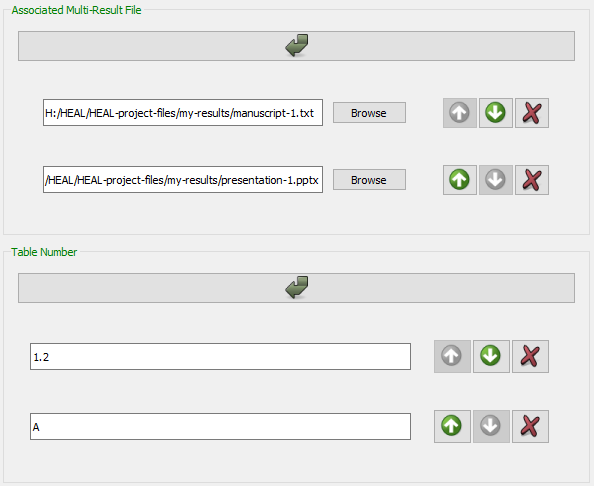
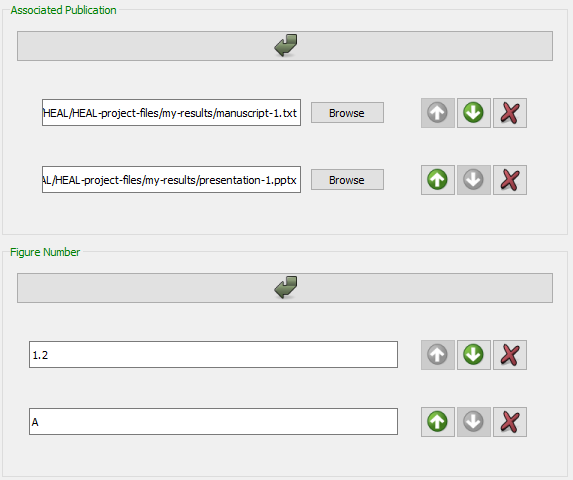
Updates for new tool release

diff --git a/docs/resulttrack/addresult.md b/docs/resulttrack/addresult.md
@@ -54,29 +54,29 @@
 2. This field pipes in all existing experiment names from the Experiment Tracker into a drop-down menu.
 
      <figure markdown>
-        ![](../app-screenshots/result-assoc-exp.PNG)
+        ![](../app-screenshots/results-assoc-exp.PNG)
         <figcaption></figcaption>
     </figure>  
 
-#### Associated Multi-Result File(s)
-1. You will need to provide the path for the Associated Multi-Result File (e.g., manuscript, poster, etc.), in which the individual result appears. To add, select the arrow below the field:
+#### Associated Publication
+1. If this figure is already part of a manuscript, poster, or other publication, you will provide the path for that publication here. If your figure is not currently associated with a publication, you can leave this field blank. When it is included within a publication, you should return to [edit the result annotation](editresult.md) to add in the associated publication. 
 
+To add, select the arrow below the field:
     <figure markdown>
         ![](../app-screenshots/assoc-multi-result-file-2.PNG)
         <figcaption></figcaption>
     </figure>
         
-    *If the result is associated with multiple multi-result files*, select the arrow again and enter the paths to each of the multi-result files here. This will allow the tool to create a results tracker for each of those multi-result files in future steps (or add the individual result to the right results trackers), all of which will be associated with this result.
-
+*If the result is associated with multiple publications*, select the arrow again and enter the paths to each of the publication files here. This will allow the tool to create a results tracker for each of those publications in future steps (or add the individual result to the right results trackers), all of which will be associated with this result.
     <figure markdown>
         ![](../app-screenshots/assoc-multi-result-file-multi.PNG)
         <figcaption></figcaption>
     </figure>
 
 #### Figure Number/Table Number
-1. If you selected "Figure" or "Table" within "Result Category," you will need to provide a corresponding figure/table number for each "Associated Multi-Result File."
+1. If you selected "Figure" or "Table" within "Result Category," you will need to provide a corresponding figure/table number for each "Associated Publication."
 1. Click on the arrow to insert each figure/table number. 
-    1. Ensure that the figure/table numbers are in the same order as the multi-result files. You can adjust the order using the green up and down arrows.
+    1. Ensure that the figure/table numbers are in the same order as the corresponding publications. You can adjust the order using the green up and down arrows.
         
         <figure markdown>
             ![](../app-screenshots/figure-num.PNG)
@@ -114,7 +114,7 @@ Regardless of your annotation approach, there are two ways to add "Associated Fi
 
 
 #### Result Supports
-This describes the larger claim that the result is used to support in the multi-result file. This is not required but can be very useful for data reuse and interpretation for future researchers.
+This describes the larger claim that the result is used to support in the publication. This is not required but can be very useful for data reuse and interpretation for future researchers.
 
 ![](../app-screenshots/results-support.PNG)
 
@@ -122,19 +122,24 @@ This describes the larger claim that the result is used to support in the multi-
 
 1. When you are done filling out the form, select "Save result."
 
-!!! warning
+    !!! warning
 
-    **Make sure that you do not have your Results Tracker open before trying to save.**
+        **Make sure that you do not have your Results Tracker open before trying to save.**
 
-    If you attempt to save a result but have the corresponding Results Tracker open, the annotated result file *will* save to your dsc-pkg folder, but the tool *will not* be able to automatically save the information to the Results Tracker. You will receive this error:
-        <figure markdown>
-            ![](../app-screenshots/result-tracker-open-error.PNG)
-            <figcaption></figcaption>
-        </figure>
-    
-    As the printed message explains, in this case, you will have to use the ["Batch add existing result(s) to tracker" option](batchresult.md) to add this annotated result file to the Results Tracker.
+        If you attempt to save a result but have the corresponding Results Tracker open, the annotated result file *will* save to your dsc-pkg folder, but the tool *will not* be able to automatically save the information to the Results Tracker. You will receive this error:
+            <figure markdown>
+                ![](../app-screenshots/result-tracker-open-error.PNG)
+                <figcaption></figcaption>
+            </figure>
+        
+        As the printed message explains, in this case, you will have to use the ["Batch add existing result(s) to tracker" option](batchresult.md#batch-add-results-to-tracker) to add this annotated result file to the Results Tracker.
 
-2. If your result saves successfully, The User Status Message Box will display this message to indicate your result saved successfully and that the result has been written to the Results Tracker file.
+1. Each time you save a result, the tool will look for two things:
+    1. Any existing Results Trackers for the associated publication(s) included in the annotation. If they do not already exist, the tool will create one for each of the associated publication(s). 
+    2. A Results Tracker called "heal-csv-results-tracker-collect-all." This Results Tracker file will include a compilation of every annotated result, regardless of its associated publication.
+        1. If you annotate a result that is not yet associated with a publication, it will appear in this tracker only until you edit the result annotation to include an associated publication.
+
+2. If your result saves successfully, The User Status Message Box will display this message to indicate your result saved successfully and that the result has been written to the corresponding Results Tracker file(s) as well as the results-tracker-collect-all file.
 
     <figure markdown>
         ![](../app-screenshots/usmb-results-save.png)
@@ -153,7 +158,7 @@ This describes the larger claim that the result is used to support in the multi-
         Once you have created them, you will not generally need to interact with the annotation files (.txt files) unless:
         
         1. You need to [edit an existing annotated result](editresult.md)
-        2. There is an error in automatically adding results to the Results Tracker, which would necessitate manually [batch adding results to the tracker](batchresult.md)
+        2. There is an error in automatically adding results to the Results Tracker, which would necessitate manually [batch adding results to the tracker](batchresult.md#batch-add-results-to-tracker)
 
 3. Clear the form. When the form resets, the next sequential Result ID will be generated, so you can start annotating a new result right away.
 
@@ -161,6 +166,12 @@ This describes the larger claim that the result is used to support in the multi-
         ![](../app-screenshots/result-clear-form.PNG)
         <figcaption></figcaption>
     </figure>
+
+!!! tip 
+
+     If you need to annotate a new result that is very similar to a previously annotated result with only some slight changes, you can also use the advanced option ["Add a new result based on an existing result."](batchresult.md#add-a-new-resource-based-on-an-existing-resource) 
+     
+     This will allow you to copy the information from a previously annotated result into a new result, for ease of annotation.
 
 
 

diff --git a/docs/resotrack/addresource.md b/docs/resotrack/addresource.md
@@ -49,11 +49,11 @@ Below is a table of all the resource category and sub-category options for your 
 
 | Resource Category               | Sub-category                          | Additional Resource Annotation Fields for Category |
 | ------------------------------- | ------------------------------------- | ------------------------------------- |
-| Multi-result | Peer-review manuscript<br>Report<br>White paper<br>Presentation<br>Poster | <ul><li>**Multi-result Resource - Sub-Category**</li><li>**Associated Results Tracker**: provides the path to the Results Tracker associated with this multi-result file;<br>*Note that the Associated Files/Dependencies field will no longer appear.*</li>
-| Single-result | Figure<br>Table<br>Text | <ul><li>**Single-result Resource - Sub-Category**</li>
+| Publication | Peer-review manuscript<br>Report<br>White paper<br>Presentation<br>Poster | <ul><li>**Publication Resource - Sub-Category**</li><li>**Associated Results Tracker**: provides the path to the Results Tracker associated with this multi-result file;<br>*Note that the Associated Files/Dependencies field will no longer appear.*</li>
+| Result | Multi-panel figure<br>Single-panel figure<br>Table<br>Text | <ul><li>**Result Resource - Sub-Category**</li>
 | Tabular-data | Raw data<br>Processed intermediate data<br>Processed final data | <ul><li>**Resource Row Description**: explanation of what one row within the tabular file represents</li><li>**Data Resource - Sub-Category**</li><li>**Associated Data Dictionary**: file path for the data dictionary associated with the tabular file (should not be put in the Associated Files/Dependencies field)</li><li>**Associated Protocol**: file path for the protocol associated with the tabular file (should not be put in the Associated Files/Dependencies field)</li>
 | Non-tabular-data | Raw data<br>Processed intermediate data<br>Processed final data | <ul><li>**Data Resource - Sub-Category**</li><li>**Associated Protocol**: file path for the protocol associated with the tabular file (should not be put in the Associated Files/Dependencies field)</li>
-| Metadata | HEAL-formatted data dictionary<br>Other formatted data dictionary<br>Protocol<br>Analysis plan<br>HEAL-formatted results tracker<br>HEAL-formatted experiment tracker<br>Other | <ul><li>**Metadata Resource - Sub-Category**</li><li>*Note that if you select heal-formatted-results-tracker as the sub-category, the "Associated Files/Dependencies field will no longer appear.*</li>
+| Metadata | HEAL-formatted data dictionary<br>Other formatted data dictionary<br>Protocol<br>Analysis plan<br>HEAL-formatted results tracker<br>Other | <ul><li>**Metadata Resource - Sub-Category**</li><li>*Note that if you select heal-formatted-results-tracker as the sub-category, the "Associated Files/Dependencies field will no longer appear.*</li>
 | Code | No sub-categories | <ul><li>No additional Resource Tracker fields</li>
 
 #### Experiment Resource 'Belongs' To 
@@ -288,3 +288,9 @@ Once you have finished entering the resource information, select "Save resource.
             ![](../app-screenshots/usmb-clear-resource-form.PNG)
             <figcaption></figcaption>
         </figure>
+
+!!! tip 
+
+     If you need to annotate a new resource that is very similar to a previously annotated resource with only some slight changes, you can also use the advanced option ["Add a new resource based on an existing resource."](batchreso.md#add-a-new-resource-based-on-an-existing-resource) 
+     
+     This will allow you to copy the information from a previously annotated resource into a new resource, for ease of annotation.

diff --git a/docs/exptrack/addexp.md b/docs/exptrack/addexp.md
@@ -80,7 +80,7 @@ Once you have finished entering the experiment information, select "Save experim
             <figcaption></figcaption>
         </figure>
     
-    As the printed message explains, in this case, you will have to use the ["Batch add existing experiment(s) to tracker" option](batchexp.md) to add this annotated experiment file to the Experiment Tracker.
+    As the printed message explains, in this case, you will have to use the ["Batch add existing experiment(s) to tracker" option](batchexp.md#batch-add-experiments-to-tracker) to add this annotated experiment file to the Experiment Tracker.
 
 1. If the experiment is saved successfully, the User Status Message Box will display this message to indicate your experiment saved successfully and that the experiment has been written to the Experiment Tracker file:
 
@@ -95,12 +95,12 @@ Once you have finished entering the experiment information, select "Save experim
         <figcaption></figcaption>
     </figure>
 
-!!! note
+    !!! note
 
-    Once you have created them, you will not generally need to interact with the annotation files (.txt files) unless:
+        Once you have created them, you will not generally need to interact with the annotation files (.txt files) unless:
 
-    1. You need to [edit an existing annotated experiment](editexp.md)
-    2. There is an error in automatically adding the experiment to the Experiment Tracker, which would necessitate manually [batch adding experiments to the tracker](batchexp.md#batch-add-experiments-to-tracker)
+        1. You need to [edit an existing annotated experiment](editexp.md)
+        2. There is an error in automatically adding the experiment to the Experiment Tracker, which would necessitate manually [batch adding experiments to the tracker](batchexp.md#batch-add-experiments-to-tracker)
 
 5. After you have added a new experiment, you can annotate a new experiment.
 

diff --git a/docs/resulttrack/index.md b/docs/resulttrack/index.md
@@ -6,11 +6,13 @@ full-width: true
 
 # About the Results Tracker
 
-![](../app-screenshots/results-track-first.png){: loading=lazy width="550" align=right } This tab will help you create and fill out the Results Tracker(s). Each Results Tracker provides an annotated inventory of all results included in a multi-result file. The depth and extent of information included in a Results Tracker will be determined by the approach you have chosen for annotation of your data.
+![](../app-screenshots/results-track-first.png){: loading=lazy width="550" align=right } This tab will help you create and fill out the Results Tracker(s). Each Results Tracker provides an annotated inventory of all results included in a publication. The depth and extent of information included in a Results Tracker will be determined by the approach you have chosen for annotation of your data.
 
-You will have one Results Tracker for **each** multi-result file (e.g., manuscript, poster, etc.) that you share. If you only have one multi-result file that you are planning to share, you will only have one Results Tracker. However, if you have multiple multi-result files, you will have a Results Tracker for each multi-result file.
+You will have one Results Tracker for **each** publication (e.g., manuscript, poster, etc.) that you share. If you only have one publication that you are planning to share, you will only have one Results Tracker. However, if you have multiple publications, you will have a Results Tracker for each publication.
 
-<br><br>
+In addition to the publication-specific Results Trackers, you will have one overall Results Tracker, which is a compilation of all individual results you have annotated within the tool, including results that are not yet associated with a publication.
+
+<br><br><br>
 
 !!! note "A Note on the Results Tracker"
 

diff --git a/docs/resotrack/batchreso.md b/docs/resotrack/batchreso.md
@@ -1,5 +1,34 @@
 # Advanced
 
+## Add a New Resource Based on an Existing Resource
+
+If you need to annotate a resource that is very similar to a previously annotated resource, with only small changes, you may want to use the "Add a new resource based on an existing resource" option. 
+
+With this feature, you will select a previously annotated resource, and the tool will copy the information from the chosen resource into a new resource annotation form with a unique resource-ID. You will then only need to edit the information rather than reproduce it.
+
+1. Select "Add a new resource based on an existing resource."
+
+    <figure markdown>
+        ![](../app-screenshots/new-resource-based-on-old.PNG)
+        <figcaption></figcaption>
+    </figure>
+
+2. Your working data package folder will open automatically. Select the resource on which you want to base your new resource annotation. 
+
+    <figure markdown>
+        ![](../app-screenshots/select-old-resource.PNG)
+        <figcaption></figcaption>
+    </figure>
+
+3. The annotate resource form will open and populate with the selected resource information with a unique ID.
+
+    <figure markdown>
+        ![](../app-screenshots/populate-new-resource.PNG)
+        <figcaption></figcaption>
+    </figure>
+
+4. Edit the form to reflect the differences in this new resource. Save the form.
+
 ## Batch Add Resource(s) to Tracker
 
 If you try to save a resource while you have the Resource Tracker open, you will receive an error. The annotated resource file will save as a .txt file within the dsc-pkg folder, but it will not be added to the Resource Tracker. You will need to add this resource manually using the "Batch add existing resource(s) to tracker" option.

diff --git a/docs/resulttrack/batchresult.md b/docs/resulttrack/batchresult.md
@@ -1,4 +1,35 @@
 # Advanced
+
+
+## Add a New Result Based on an Existing Result
+
+If you need to annotate a result that is very similar to a previously annotated result, with only small changes, you may want to use the "Add a new result based on an existing result" option. 
+
+With this feature, you will select a previously annotated result, and the tool will copy the information from the chosen result into a new result annotation form with a unique result-ID. You will then only need to edit the information rather than reproduce it.
+
+1. Select "Add a new result based on an existing result."
+
+    <figure markdown>
+        ![](../app-screenshots/new-result-based-on-old.PNG)
+        <figcaption></figcaption>
+    </figure>
+
+2. Your working data package folder will open automatically. Select the result on which you want to base your new result annotation. 
+
+    <figure markdown>
+        ![](../app-screenshots/select-old-result.PNG)
+        <figcaption></figcaption>
+    </figure>
+
+3. The annotate result form will open and populate with the selected result information with a unique ID.
+
+    <figure markdown>
+        ![](../app-screenshots/populate-new-result.PNG)
+        <figcaption></figcaption>
+    </figure>
+
+4. Edit the form to reflect the differences in this new result. Save the form.
+
 ## Batch Add Result(s) to Tracker
 
 If you try to save a result while you have the corresponding Results Tracker open, you will receive an error. The annotated result file will save as a .txt file within the dsc-pkg folder, but it will not be added to the Results Tracker. You will need to do this manually using the "Batch add existing result(s) to tracker" option.

diff --git a/docs/exptrack/editexp.md b/docs/exptrack/editexp.md
@@ -41,12 +41,6 @@ If you want to edit an experiment annotation after you have created it, you can 
             ![](../app-screenshots/edit-result-archive.PNG)
             <figcaption></figcaption>
         </figure>
-    
-        !!! Note
-    
-            Currently, you can only edit an experiment once within the tool, due to an issue of duplicate files in the archive folder. This will be addressed in later releases of the tool. 
-            
-            For a temporary fix, if you need to make second or third edits to the same experiment file, you should go into the archive folder and change the name of the experiment txt file saved there (for example, you can change the name from "exp-trk-exp-1" to "exp-trk-exp-1-1"). This will allow the tool to archive your current experiment annotation without returning an error.
         
 
 4. Make any necessary edits to your experiment file, and then select "Save experiment."

diff --git a/docs/resulttrack/resulttotrack.md b/docs/resulttrack/resulttotrack.md
@@ -31,7 +31,7 @@ Once you have annotated your results files, close the "Annotate Result" window a
 
 4. Once you select the folder, you will receive information in the User Status Message Box notifying you that the Results Tracker(s) have been created based on your results file(s). 
     
-    *In the example below, results added were associated with two different multi-result files, so two results trackers were created and saved in the dsc-pkg folder. And the individual results were automatically entered into each tracker, as appropriate.*
+    *In the example below, results added were associated with two different publications, so two results trackers were created and saved in the dsc-pkg folder. And the individual results were automatically entered into each tracker, as appropriate.*
 
     <figure markdown>
         ![](../app-screenshots/usmb-results-auto.png)

diff --git a/docs/resotrack/editresource.md b/docs/resotrack/editresource.md
@@ -35,10 +35,4 @@ If you want to edit a resource after you have created it, you can do so in the t
         <figcaption></figcaption>
     </figure> 
 
-    !!! note
-
-        Currently, you can only edit a resource once within the tool, due to an issue of duplicate files in the archive folder. This will be addressed in later releases of the tool. 
-        
-        For a temporary fix, if you need to make second or third edits to the same resource file, you should go into the archive folder and change the name of the resource txt file saved there (for example, you can change the name from "resource-trk-result-1" to "resource-trk-result-1-1" and so on for additional revisions). This will prevent an error.
-
 4. Make any necessary edits to your resource file, and then select "Save resource."

diff --git a/docs/resulttrack/editresult.md b/docs/resulttrack/editresult.md
@@ -41,9 +41,4 @@ If you want to edit a result after you have created it, you can do so in the too
             <figcaption></figcaption>
         </figure>
 
-        !!! Note
-    
-            Currently, you can only edit a result once within the tool, due to an issue of duplicate files in the archive folder. This will be addressed in later releases of the tool. For a temporary fix, if you need to make second or third edits to the same result file, you should go into the archive folder and change the name of the result txt file saved there (for example, you can change the name from "result-trk-result-1" to "result-trk-result-1-1").
-        
-
 4. Make any necessary edits to your result file, and then select "Save result."

diff --git a/docs/about/download/start-mac.md b/docs/about/download/start-mac.md
@@ -1,5 +1,9 @@
 # Downloading the Desktop Application Tool for Mac
 
+!!! Info "What to Do First"
+
+    * **DO NOT delete your dsc-pkg folder or contents:** If you have already used the tool to create/initialize your data package (i.e. created your dsc-pkg folder within your study folder), **DO NOT** delete your dsc-pkg folder or any of its contents (i.e. standard data package metadata files such as experiment, resource, and results trackers and data dictionaries)
+
 1. Navigate to the [latest release for the tool](https://github.com/norc-heal/heal-data-pkg-tool/releases/latest/){target=_blank}. 
     1. Expand "Assets" and select "dsc-pkg-tool-mac.zip" to download the tool.
 

diff --git a/docs/resulttrack/viewresult.md b/docs/resulttrack/viewresult.md
@@ -8,7 +8,7 @@ full-width: true
 
 If you need to view anything that you have already input into the Results Tracker, you can use the "View Tracker" feature. It may be useful to view your Results Tracker within the application to:
 
-* Review which individual results associated with a multi-result file that you have already annotated and determining which you still need to annotate.
+* Review which individual results associated with a publication that you have already annotated and determining which you still need to annotate.
 * Find/confirm the result ID for a particular result to determine where edits need to be made when there has been a change.
 
 ***
